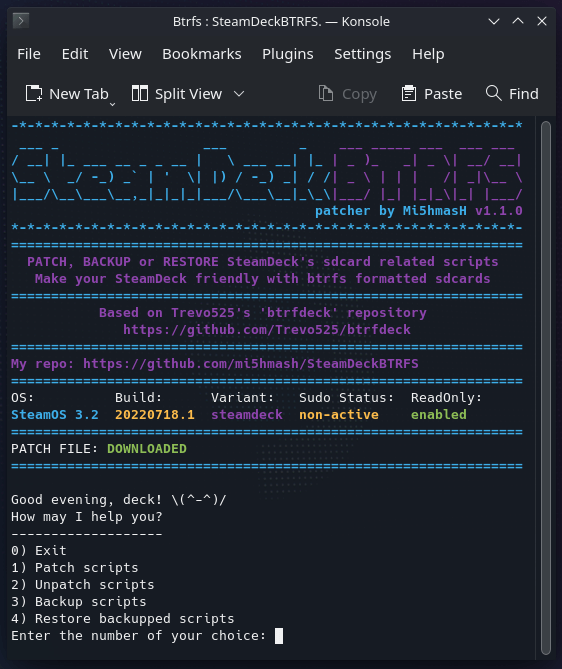
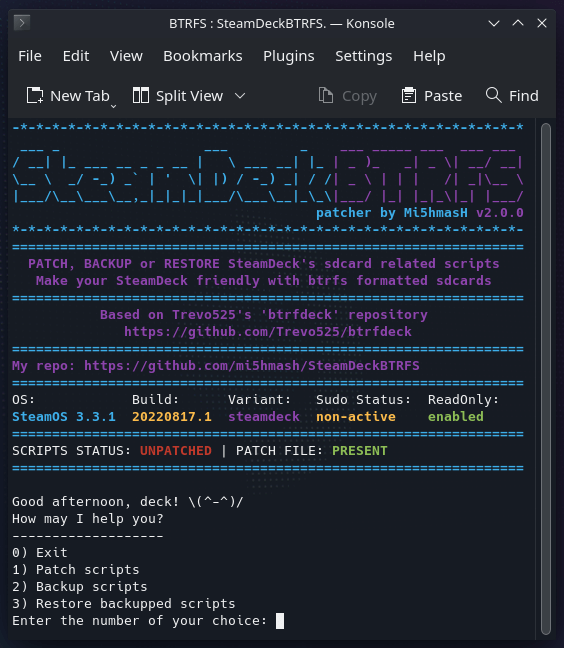
Update README.md

diff --git a/README.md b/README.md
@@ -1,6 +1,6 @@
 [![License: MIT](https://img.shields.io/badge/License-MIT-blueviolet.svg)](https://opensource.org/licenses/MIT)
 [![Release Version](https://img.shields.io/github/v/tag/mi5hmash/SteamDeckBTRFS?label=version)](https://github.com/mi5hmash/SteamDeckBTRFS/releases/latest)
-![Latest Known Supported SteamOS](https://img.shields.io/badge/Latest%20Suppored%20SteamOS-3.3%20--%20build%2020220803.1-success)
+![Latest Known Supported SteamOS](https://img.shields.io/badge/Latest%20Suppored%20SteamOS-3.3.1%20--%20build%2020220817.1-success)
 [![Visual Studio Code](https://img.shields.io/badge/--007ACC?logo=visual%20studio%20code&logoColor=ffffff)](https://code.visualstudio.com/)
 
 # :interrobang: SteamDeckBTRFS - What is it?
@@ -24,32 +24,50 @@ Then right-click on the ***'SteamDeckBTRFS.sh'*** and select "Run in Konsole".
 
 # :alarm_clock: Updating the tool and getting the latest patch
 Starting from version 1.1.0, the script checks on each launch if a newer release is available. If so, it asks the user for permission to download and update the tool. 
-Next, the script will check if there is a patch for the current build of the system in the ***"./patches/"*** directory. If the script does not find a suitable candidate, it tries to look for it in this repository and download it on your device.
+Next, the script will check if there is a patch for the current build of the system in the ***"./patches/"*** directory. If the tool doesn't find a suitable candidate, it tries to look for it online in this repository and download it on your device.
 
 # :scroll: Functions and their numbers
 ## Main functions
 Although nearly all of the names are self-explanatory, I'm leaving a short note below each one of them.
 ### 0. Exit
 Safely terminates the script.
-### 1. Patch scripts
-Tries to patch the scripts on Steam Deck if a compatible patch exists in the ***"./patches/"*** directory. Before doing so you would want to run **"3. Backup scripts"** option just in case you need it later.
-### 2. Unpatch scripts
-Tries to reverse patch the scripts that were previously patched by this tool.
-### 3. Backup scripts
+### 1. Patch | Unpatch scripts
+Tries to patch or reverse patch the scripts on Steam Deck if a compatible patch exists in the ***"./patches/"*** directory. Before doing so you would want to run **"2. Backup scripts"** option just in case you need it later. 
+
+> **Note:** Unpatch option works only when the scripts was previously patched by this tool.
+
+### 2. Backup scripts
 Makes a backup of script files and stores it in the ***"./backup/"*** directory.
-### 4. Restore backupped scripts
+### 3. Restore backupped scripts
 Restores a backup, chosen from a ***"./backup/"*** directory.
 ## Hidden functions
 ### 97. Toggle steamos-readonly status
 Allows you to change the steamos-readonly status to the opposite of the current one.
 ### 98. Prepare a workbench
 Unpacks a previously made backup to ***"./workbench/original/"*** directory and copies script files to ***"./workbench/patched/"*** directory. Having all that set, you can try to make a change to the scripts inside the ***"./workbench/patched/"*** directory.
+
+> **Note:** There are additional files in the ***"./workbench/org_intel/"*** directory that are not needed to create the patch, but may be helpful.
+
 ### 99. Create a patch file
-After you change everything you want, you can run this option to compare files from both directories and get your own patch in result. The file will be saved in the ***"./patches/"*** directory. **NOTE: You have to run it from a SteamOS on a Steam Deck as it will take the current SteamOS build as a patch version. Using other Linux distros won't work.**
+After you change everything you want, you can run this option to compare files from both directories and get your own patch in result. The file will be saved in the ***"./patches/"*** directory. 
+
+> **Note:** You have to run it from a SteamOS on a Steam Deck as it will take the current SteamOS build as a patch version. Using other Linux distros won't work.
+
 ## Are we done?
 After completion of each function, you will be asked if that's all for now. You can choose '**No**' to come back to the list of all functions.
 # :mega: Additional notes
+## Password and root privileges
 A majority of options require root privileges. If you've already set your custom password, the script will ask you to type it. It will be stored as an encrypted variable for the time of running the script. Otherwise, the script will use the default password which is **"GabeNewell#1"**. Unless you're using your own password, it will be removed at the end of each option execution.
+## Adding own patches
+The tool uses the data from the ***"./patches/_patches.csv"*** file to identify the correct patch. Info about patches created with a workbench is added to the ***"./patches/_patches_own.csv"*** file. That file overrides data from the first mentioned file.
+The structure of both files is as follows:
+```markdown
+e4765353a6fe36f254e67a3f7c62719e;b5ce0513-9d81-4c16-b7f9-c3b3fa2cee16;O
+9d212ba6f4e7afce19d8eb3a836065af;b5ce0513-9d81-4c16-b7f9-c3b3fa2cee16;P
+```
+#### EXPLANATION:
+md5 checksum of sha256 checksums of the script files separated by a "|" character;random GUID which is used as patch filename;letter "P" (Patched) or "O" (Original)
+
 # :fire: Issues
 All the problems I've encountered during my tests have been fixed on the go. If you find any other issue (hope you won't) then please, feel free to report it [there](https://github.com/mi5hmash/SteamDeckBTRFS/issues).
 # :star: Credits
